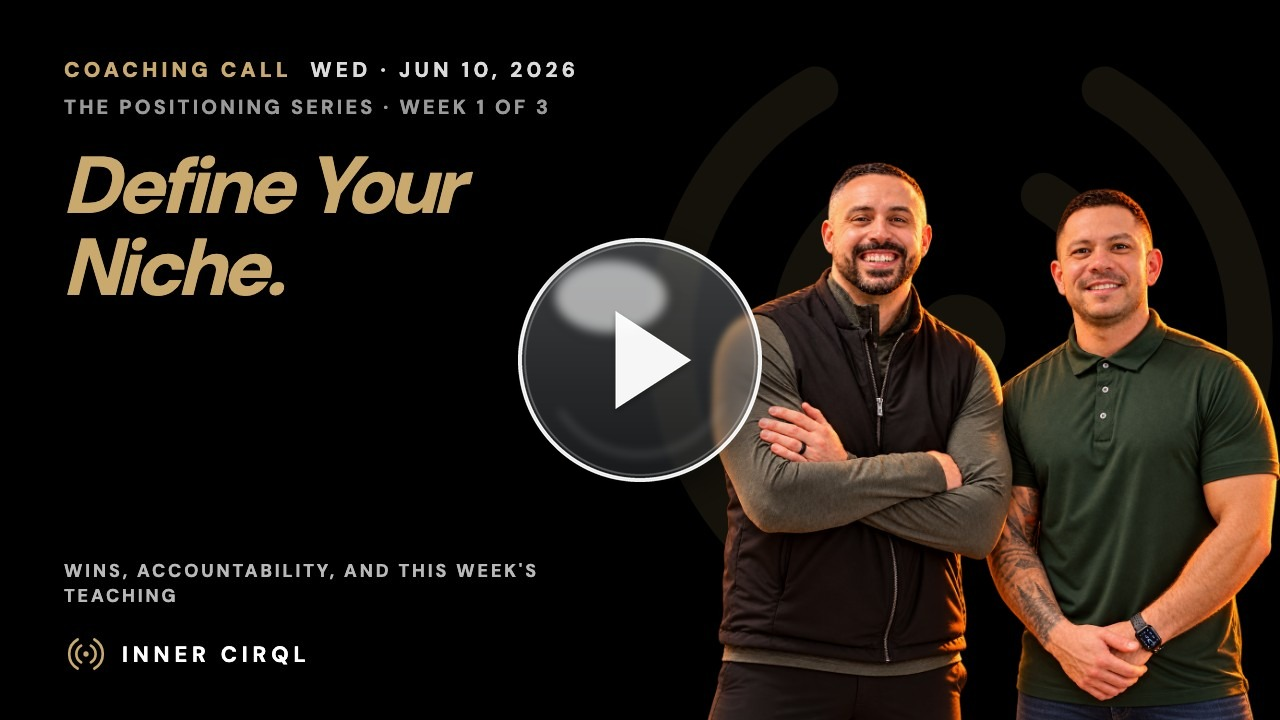
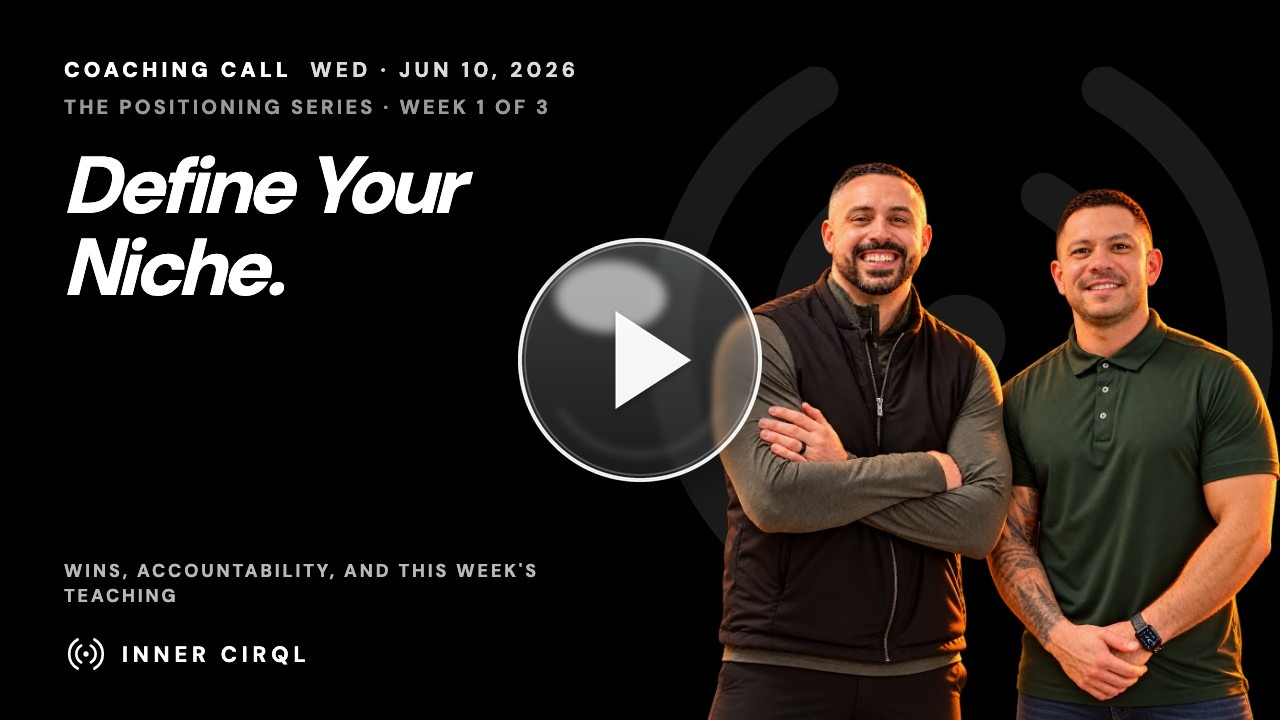
Training: retitle Jun 10 coaching call (The Positioning Series · Week 1 · Niche.) + thumbnail

Changed region(s): [[0.0312, 0.2139, 0.375, 0.4278], [0.0312, 0.0917, 0.2188, 0.1222], [0.0312, 0.8861, 0.0938, 0.9167]]

diff --git a/training/index.html b/training/index.html
@@ -94,6 +94,26 @@ window.LIBRARY = {
   ],
   "items": [
     {
+      "id": "v-2026-06-10",
+      "date": "2026-06-10",
+      "dateLabel": "June 10, 2026",
+      "series": "positioning",
+      "week": 1,
+      "name": "Niche.",
+      "title": "The Positioning Series · Week 1 · Niche.",
+      "headline": [
+        "Define Your",
+        "Niche."
+      ],
+      "sub": "The Positioning Series · Week 1 of 3",
+      "desc": "The Positioning Series, Week 1: define your Niche with the 3 P's. Wins, accountability, and the teaching segment, edited replay.",
+      "href": "https://coach.theinnercirql.com/2026-06-10/",
+      "pdf": null,
+      "slides": null,
+      "embed": "https://www.youtube.com/embed/1KuhnMXoUxI?rel=0&modestbranding=1",
+      "thumb": "/assets/thumbs/jun-10-call.jpg?v=29920161"
+    },
+    {
       "id": "v-2026-06-03",
       "date": "2026-06-03",
       "dateLabel": "June 3, 2026",
@@ -532,26 +552,6 @@ window.LIBRARY = {
       "slides": null,
       "embed": "https://www.youtube.com/embed/YI0F791uKZE?rel=0&modestbranding=1",
       "thumb": "/assets/thumbs/jun-17-call.jpg?v=29920142"
-    },
-    {
-      "id": "v-2026-06-10",
-      "date": "2026-06-10",
-      "dateLabel": "June 10, 2026",
-      "series": "positioning",
-      "week": 1,
-      "name": "Niche.",
-      "title": "The Positioning Series · Week 1 · Niche.",
-      "headline": [
-        "Define Your",
-        "Niche."
-      ],
-      "sub": "The Positioning Series · Week 1 of 3",
-      "desc": "The Positioning Series, Week 1: define your Niche with the 3 P's. Wins, accountability, and the teaching segment, edited replay.",
-      "href": "https://coach.theinnercirql.com/2026-06-10/",
-      "pdf": null,
-      "slides": null,
-      "embed": "https://www.youtube.com/embed/1KuhnMXoUxI?rel=0&modestbranding=1",
-      "thumb": "/assets/thumbs/jun-10-call.jpg?v=29920142"
     },
     {
       "id": "t-become-a-listing-magnet",
